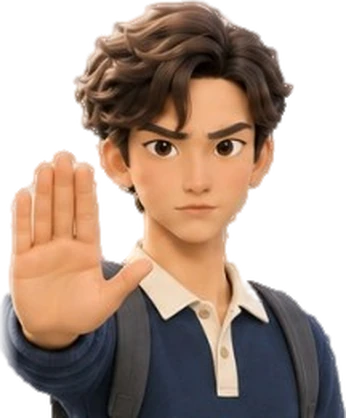
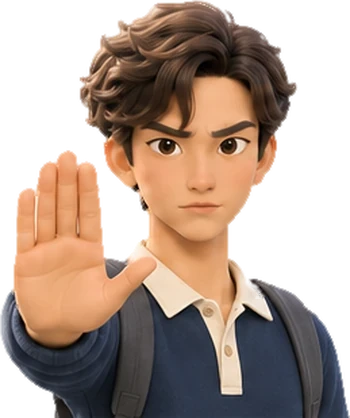
캐릭터 4개를 원본 캐릭터 시트(PNG 1536×1024)로 다시 만듦
- 게임 칸 남학생(손바닥)·여학생(웃음), 영상 1편 여학생(걱정)·2편 남학생(놀람)
- 예전 원본(1277×781 JPG)보다 1.3배 크고 압축 흔적이 없어 눈·머리카락이 또렷하고, 남학생 둘레의 흰 번짐이 없어짐
- 배경 지우기는 이전과 같은 방법 + 가장자리에 남은 시트 바탕색 한 번 더 걷어 냄
- 크기는 높이를 그대로 맞춰 배치 변화 없음(폭만 시트 비율대로, index.html width 수정)
- 그림 버전 표시 20261114c, style.css 20261114t

diff --git a/css/style.css b/css/style.css
@@ -606,7 +606,7 @@ nav{display:flex;align-items:center;gap:18px;order:2;margin-left:auto}
   /* 카드 몸통: 타일과 같은 반투명 흰 바탕 + 1.5px 연초록 테두리 + 반경 18px */
   .hero-actions .btn{position:relative;justify-content:flex-start;gap:0;min-height:72px;padding:8px 46px 8px 88px;border:1.5px solid color-mix(in srgb,var(--fresh) 22%,transparent);border-radius:18px;background:color-mix(in srgb,var(--white) 78%,transparent);-webkit-backdrop-filter:blur(6px);backdrop-filter:blur(6px);box-shadow:0 8px 18px -16px color-mix(in srgb,var(--ink) 60%,transparent);color:var(--fresh-strong);font-size:17px;line-height:1.3;text-align:left;transition:transform .15s,background-color .2s,border-color .2s}
   /* 왼쪽 썸네일: 영상 1편 카드와 같은 초록 바탕 + 캐릭터 얼굴 부분만 */
-  .hero-actions .btn::before{content:"";position:absolute;left:7px;top:7px;bottom:7px;width:72px;border-radius:12px;background:url("../img/video-ep1.webp?v=20261114b") right -7px top 3px/auto 150% no-repeat,radial-gradient(circle at 88% 0,color-mix(in srgb,var(--white) 38%,transparent),transparent 60%),linear-gradient(135deg,#17683f,#2f9a5e 60%,#4cae74)}
+  .hero-actions .btn::before{content:"";position:absolute;left:7px;top:7px;bottom:7px;width:72px;border-radius:12px;background:url("../img/video-ep1.webp?v=20261114c") right -7px top 3px/auto 150% no-repeat,radial-gradient(circle at 88% 0,color-mix(in srgb,var(--white) 38%,transparent),transparent 60%),linear-gradient(135deg,#17683f,#2f9a5e 60%,#4cae74)}
   /* 재생 표시: 기존 삼각형 svg를 썸네일 왼쪽 아래 흰 반투명 원 위에 (영상 카드의 재생 버튼 자리와 같게) */
   .hero-actions .btn .btn-icon{position:absolute;left:13px;bottom:13px;z-index:1;width:26px;height:26px;padding:8px 7px 8px 9px;border-radius:50%;background:color-mix(in srgb,var(--white) 88%,transparent);fill:var(--fresh-strong);box-shadow:0 2px 6px -2px color-mix(in srgb,var(--ink) 50%,transparent)}
   /* 맨 오른쪽 이동 화살표 (언어 무관 기호) */
@@ -649,7 +649,7 @@ nav{display:flex;align-items:center;gap:18px;order:2;margin-left:auto}
 @media(min-width:701px){
   .hero-actions{align-items:stretch}
   .hero-actions .btn,.hero-actions .btn-ghost{position:relative;gap:0;min-height:72px;padding:8px 52px 8px 92px;border:1.5px solid color-mix(in srgb,var(--fresh) 22%,transparent);border-radius:18px;background:color-mix(in srgb,var(--white) 82%,transparent);-webkit-backdrop-filter:blur(6px);backdrop-filter:blur(6px);box-shadow:0 10px 22px -18px color-mix(in srgb,var(--ink) 60%,transparent);color:var(--fresh-strong);transition:transform .2s,background-color .2s,border-color .2s,box-shadow .2s}
-  .hero-actions .btn::before{content:"";position:absolute;left:7px;top:7px;bottom:7px;width:72px;border-radius:12px;background:url("../img/video-ep1.webp?v=20261114b") right -7px top 3px/auto 150% no-repeat,radial-gradient(circle at 88% 0,color-mix(in srgb,var(--white) 38%,transparent),transparent 60%),linear-gradient(135deg,#17683f,#2f9a5e 60%,#4cae74)}
+  .hero-actions .btn::before{content:"";position:absolute;left:7px;top:7px;bottom:7px;width:72px;border-radius:12px;background:url("../img/video-ep1.webp?v=20261114c") right -7px top 3px/auto 150% no-repeat,radial-gradient(circle at 88% 0,color-mix(in srgb,var(--white) 38%,transparent),transparent 60%),linear-gradient(135deg,#17683f,#2f9a5e 60%,#4cae74)}
   .hero-actions .btn .btn-icon{position:absolute;left:13px;bottom:13px;z-index:1;width:26px;height:26px;padding:8px 7px 8px 9px;border-radius:50%;background:color-mix(in srgb,var(--white) 88%,transparent);fill:var(--fresh-strong);stroke:none;box-shadow:0 2px 6px -2px color-mix(in srgb,var(--ink) 50%,transparent)}
   /* 책 아이콘(선 그림)은 같은 흰 원 위에, 선 굵기만 유지 */
   .hero-actions .btn-ghost .btn-icon-line{padding:5px;fill:none;stroke:var(--fresh-strong)}
@@ -659,5 +659,5 @@ nav{display:flex;align-items:center;gap:18px;order:2;margin-left:auto}
 }
 /* 그림 후보 4: 영상 2편 남학생 얼굴 + 재활용 파랑 바탕 (영상 버튼 썸네일과 같은 짜임, 색만 파랑) */
 @media(min-width:701px){
-  .hero-actions .btn-ghost::before{background:url("../img/video-ep2.webp?v=20261114b") right -7px top 3px/auto 150% no-repeat,radial-gradient(circle at 88% 0,color-mix(in srgb,var(--white) 38%,transparent),transparent 60%),linear-gradient(135deg,#1f5fae,var(--recycle) 60%,#5a9be3)}
+  .hero-actions .btn-ghost::before{background:url("../img/video-ep2.webp?v=20261114c") right -7px top 3px/auto 150% no-repeat,radial-gradient(circle at 88% 0,color-mix(in srgb,var(--white) 38%,transparent),transparent 60%),linear-gradient(135deg,#1f5fae,var(--recycle) 60%,#5a9be3)}
 }

diff --git a/index.html b/index.html
@@ -15,7 +15,7 @@
 <link rel="stylesheet" href="https://cdn.jsdelivr.net/npm/pretendard@1.3.9/dist/web/variable/pretendardvariable-dynamic-subset.css" integrity="sha384-uR1wgObmx89ZQ4VVXHdzjbDJZ1PvBK01K+E3GebmaBKdZ87qRJvBWPoPbzWeEd5T" crossorigin="anonymous">
 <link rel="stylesheet" href="https://cdn.jsdelivr.net/npm/pretendard-std@1.3.9/dist/web/variable/pretendardvariable-std-dynamic-subset.css" integrity="sha384-5IBh7S8Oxkrzh/DiG0wr4k8P/pveAMuAc4p5+MngFt0UdX+0TtqTaExSFpZL1NfK" crossorigin="anonymous">
 <!-- ?v= : 배포 뒤 브라우저가 예전 CSS·JS를 쓰지 않게 하는 표시. 이 파일들을 고치면 값을 올릴 것 -->
-<link rel="stylesheet" href="css/style.css?v=20261114s">
+<link rel="stylesheet" href="css/style.css?v=20261114t">
 </head>
 <body>
 <a class="skip-link" href="#main" data-i18n="skip">본문 바로가기</a>
@@ -127,7 +127,7 @@
       <div class="video-grid">
         <article class="video-card ep-1">
           <div class="video-frame" data-video-index="0">
-            <img class="video-char" src="img/video-ep1.webp?v=20261114b" alt="" width="330" height="421" loading="lazy">
+            <img class="video-char" src="img/video-ep1.webp?v=20261114c" alt="" width="328" height="421" loading="lazy">
             <span class="video-ep" data-i18n="video.ep1.label">1편 · 기초편</span>
             <div class="video-placeholder">
               <span class="video-soon" data-i18n="video.placeholder">영상 준비 중</span>
@@ -140,7 +140,7 @@
         </article>
         <article class="video-card ep-2">
           <div class="video-frame" data-video-index="1">
-            <img class="video-char" src="img/video-ep2.webp?v=20261114b" alt="" width="314" height="422" loading="lazy">
+            <img class="video-char" src="img/video-ep2.webp?v=20261114c" alt="" width="328" height="422" loading="lazy">
             <span class="video-ep" data-i18n="video.ep2.label">2편 · 실전편</span>
             <div class="video-placeholder">
               <span class="video-soon" data-i18n="video.placeholder">영상 준비 중</span>
@@ -208,8 +208,8 @@
             <p class="game-desc" data-i18n="game.desc">쓰레기를 알맞은 통으로 끌어다 놓으세요. 게임을 통과하면 분리배출 히어로!</p>
           </div>
           <div class="game-chars" aria-hidden="true">
-            <img class="boy" src="img/game-boy.webp" alt="" width="346" height="418" loading="lazy">
-            <img class="girl" src="img/game-girl.webp" alt="" width="328" height="422" loading="lazy">
+            <img class="boy" src="img/game-boy.webp?v=20261114c" alt="" width="350" height="418" loading="lazy">
+            <img class="girl" src="img/game-girl.webp?v=20261114c" alt="" width="325" height="422" loading="lazy">
           </div>
           <div class="game-cta">
             <button type="button" class="game-start" id="game-play"><span data-i18n="game.play">게임 시작</span><svg viewBox="0 0 24 24" aria-hidden="true"><path d="M7 17 17 7M9 7h8v8"/></svg></button>
